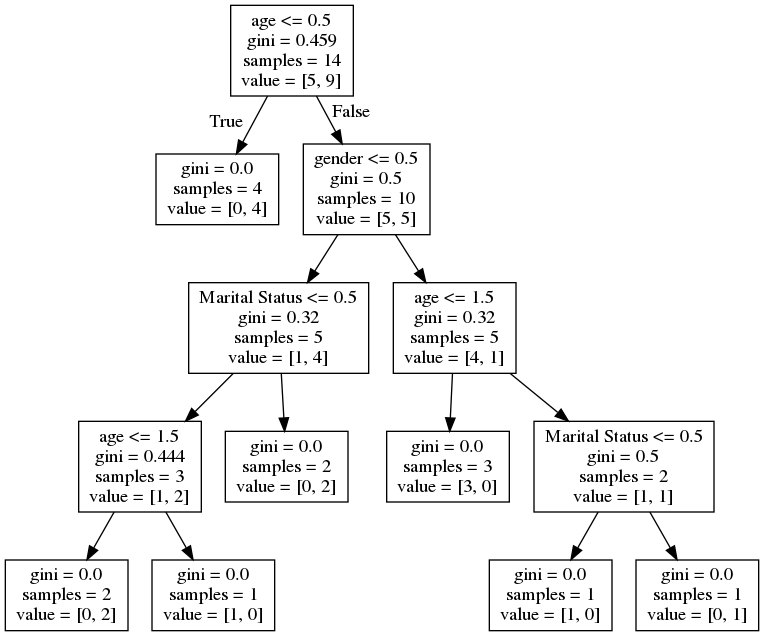
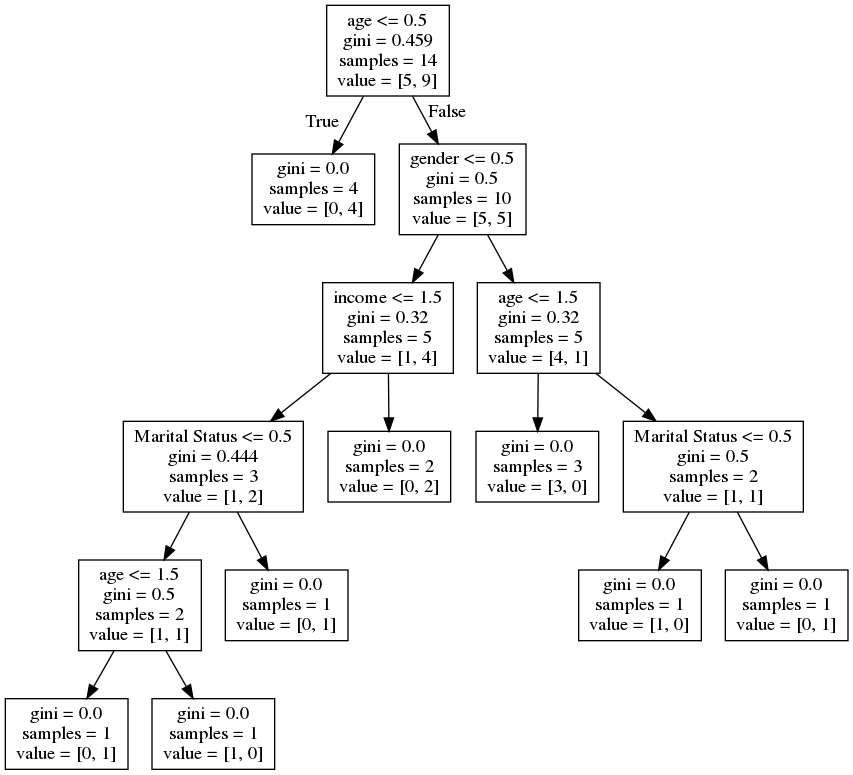
added .py

Changed region(s): [[0.0, 0.0, 1.0, 1.0]]

diff --git a/LP3/3rd assignment/assignment3.py b/LP3/3rd assignment/assignment3.py
@@ -1,0 +1,33 @@
+from sklearn.neighbors import KNeighborsClassifier
+import matplotlib.pyplot as plt
+
+x = [[2,4], [4,2], [4,6], [6,4], [4,4], [6,2]]
+y = [0, 0, 0, 0, 1, 1]
+xgraph=[i[0] for i in x]
+ygraph=[i[1] for i in x]
+
+neigh = KNeighborsClassifier(n_neighbors=3)
+neigh.fit(x, y)
+
+pre=neigh.predict([[6,6]])
+print('negative' if (pre[0]==0) else 'positive')
+
+precolor = 'ro' if (pre[0]==0) else 'go'
+plt.plot(xgraph[:4],ygraph[:4],'ro')
+plt.plot(xgraph[4:],ygraph[4:],'bo')
+plt.plot([6],[6],precolor)
+plt.axis([0, 10, 0, 10])
+plt.show()
+
+neigh = KNeighborsClassifier(n_neighbors=3,weights="distance")
+neigh.fit(x, y)
+
+pre=neigh.predict([[6,6]])
+print('negative' if (pre[0]==0) else 'positive')
+
+precolor = 'ro' if (pre[0]==0) else 'go'
+plt.plot(xgraph[:4],ygraph[:4],'ro')
+plt.plot(xgraph[4:],ygraph[4:],'bo')
+plt.plot([6],[6],precolor)
+plt.axis([0, 10, 0, 10])
+plt.show()

diff --git a/LP3/2nd assignment/assignment3.py b/LP3/2nd assignment/assignment3.py
@@ -1,0 +1,25 @@
+from sklearn import tree
+from sklearn.preprocessing import LabelEncoder,OneHotEncoder
+import pandas
+from os import system
+
+data = pandas.read_csv("dataset.csv",index_col="id")
+
+encoder=LabelEncoder()
+data["age"]=encoder.fit_transform(data["age"])
+data["income"]=encoder.fit_transform(data["income"])
+data["gender"]=encoder.fit_transform(data["gender"])
+data["Marital Status"]=encoder.fit_transform(data["Marital Status"])
+
+X_d=data[["age","income","gender","Marital Status"]]
+X=X_d[:14]
+Y=data[["Buys"]]
+Y=Y[:14]
+
+clf = tree.DecisionTreeClassifier()
+clf = clf.fit(X, Y)
+
+print("pridict :"+str(clf.predict([X_d.iloc[14]])))
+
+dotfile = tree.export_graphviz(clf, out_file = "Dtree.dot", feature_names = X.columns)
+system("dot -Tpng *.dot -o dtree2.png")

diff --git a/LP3/1st assignment/assignment1.py b/LP3/1st assignment/assignment1.py
@@ -1,0 +1,23 @@
+import numpy as np
+from sklearn.linear_model import LinearRegression
+import matplotlib.pyplot as plt
+
+x = np.array([[10],[9],[2],[15],[10],[16],[11]])
+y = np.array([95,80,10,50,45,98,38])
+
+reg = LinearRegression().fit(x, y)
+
+print("coef :"+str(reg.coef_))
+
+print("intercept"+str(reg.intercept_))
+
+print("predict :"+str(reg.predict(np.array([[16]]))))
+
+print("predict :"+str(reg.coef_*16+reg.intercept_))
+
+plt.scatter(x,y,color='red')
+plt.plot(x,reg.predict(x),color='blue')
+plt.title('Linear Regression')
+plt.xlabel('Number of hrs spent driving')
+plt.ylabel('Risk score')
+plt.show()
